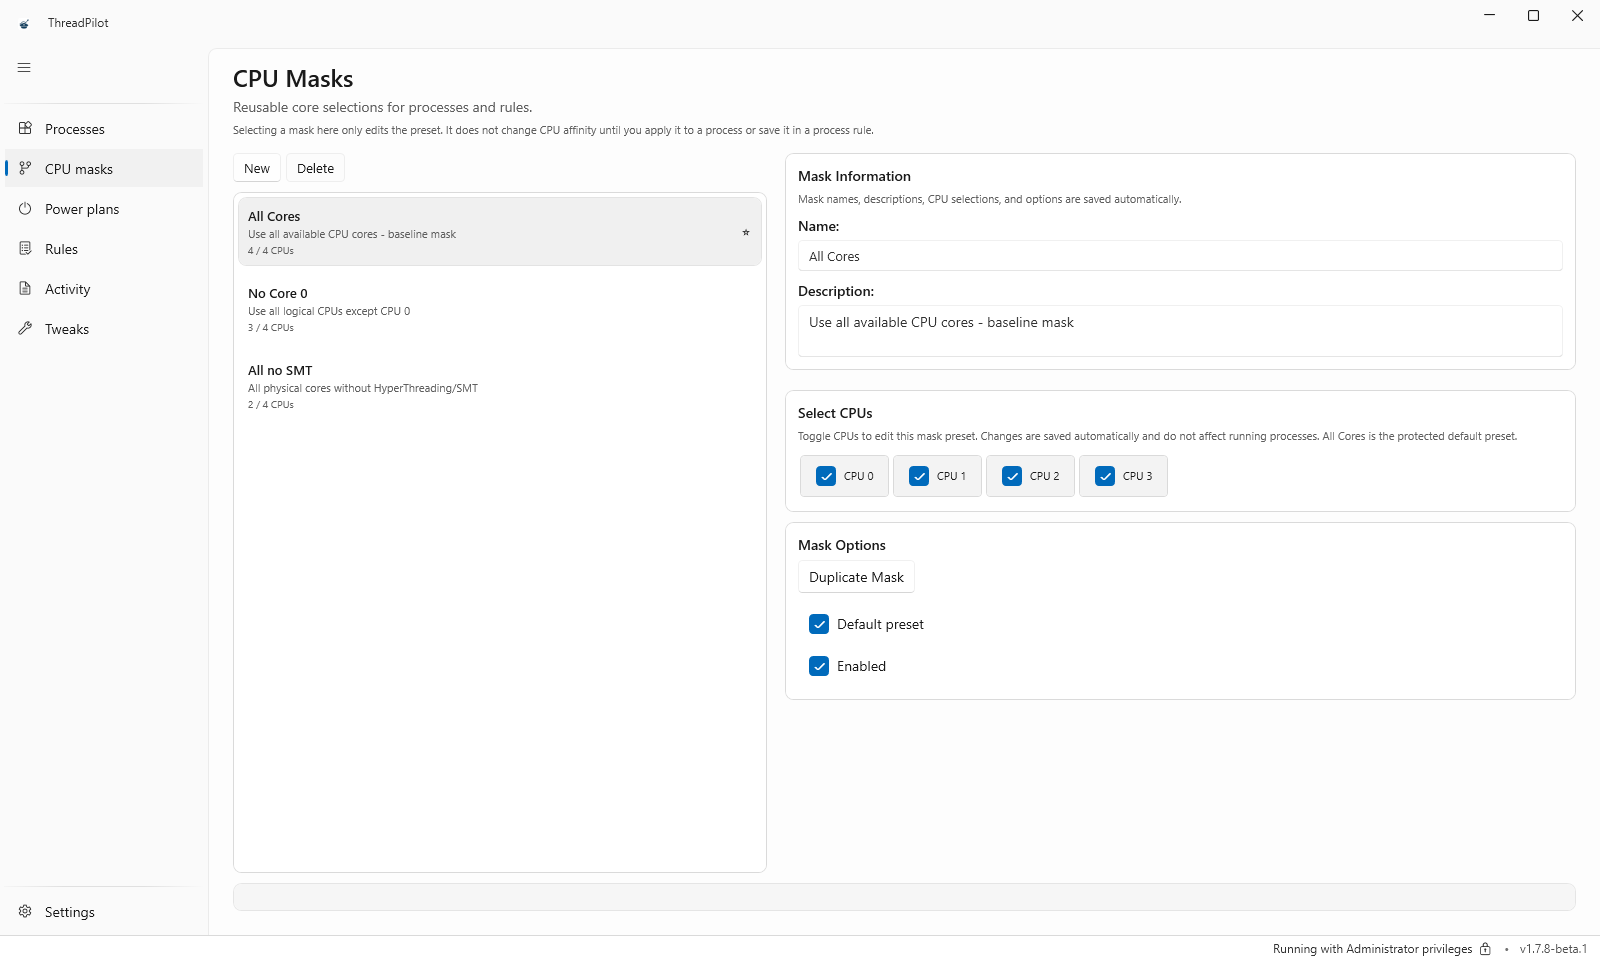
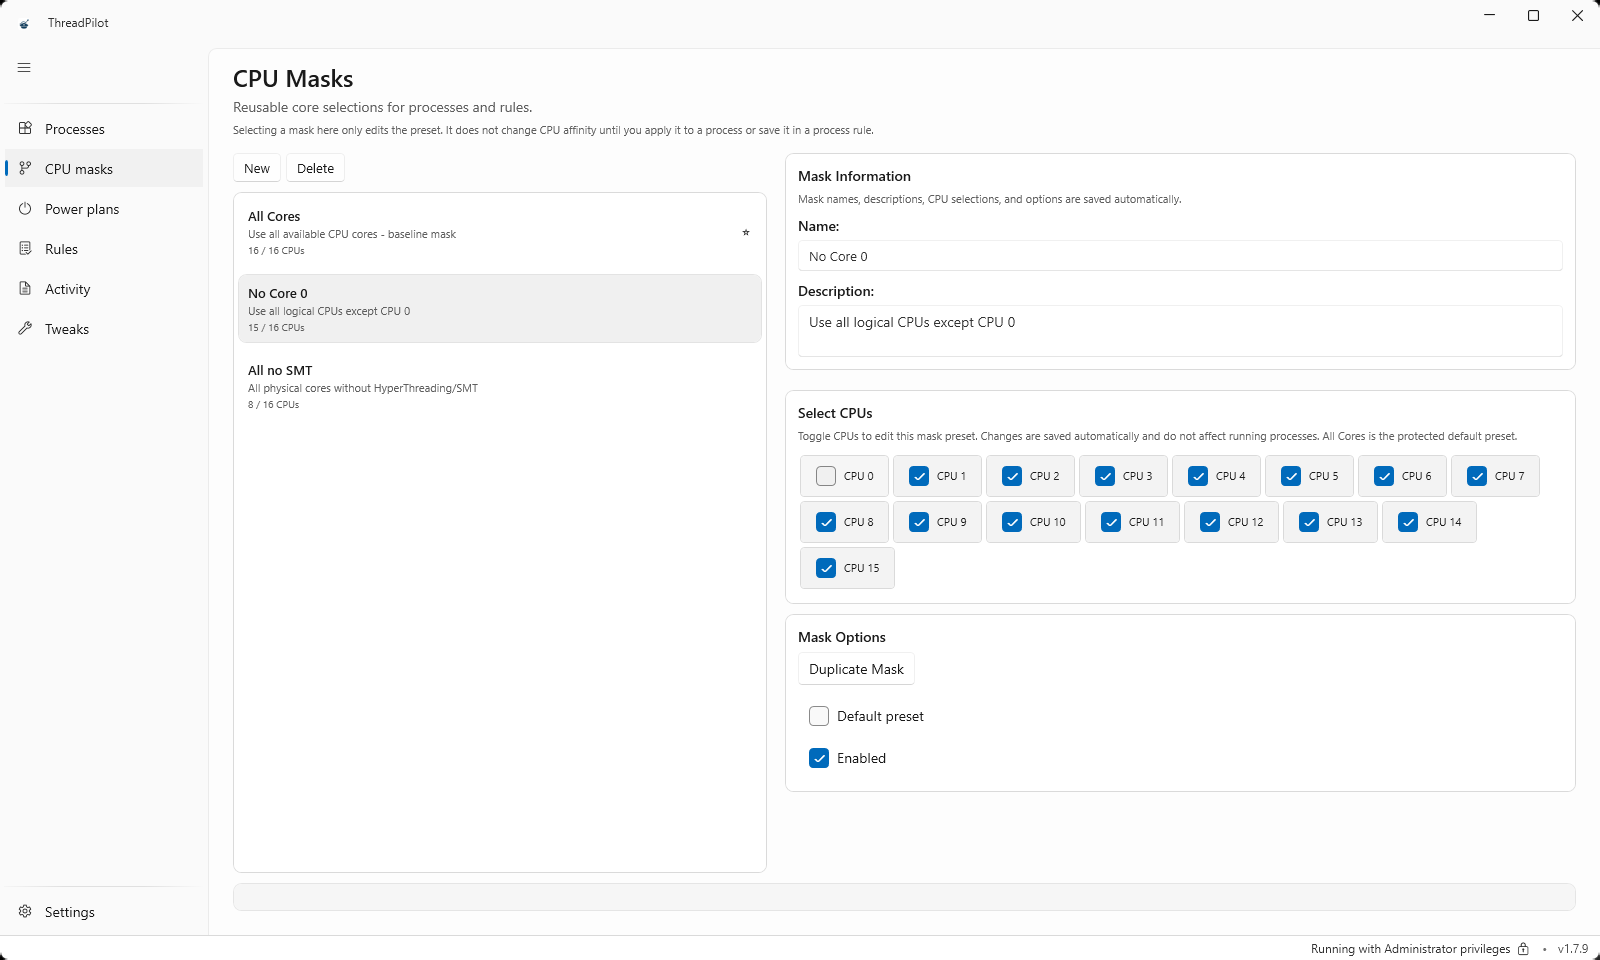
docs: refresh screenshots from v1.7.9, single hero image and thumbnail gallery (closes #97)

diff --git a/README.md b/README.md
@@ -30,13 +30,9 @@
 
 </div>
 
-<p align="center"><img src="docs/media/threadpilot-demo.gif" alt="ThreadPilot demo: CPU masks, saved rules, activity log and Windows tweaks" width="860"></p>
+<p align="center"><a href="assets/screenshots/overview-themes.png"><img src="assets/screenshots/overview-themes.png" alt="ThreadPilot v1.7.9: the Processes page in dark and light themes" width="900"></a></p>
 
-<p align="center"><sub>Real screen recording of v1.7.9: CPU masks, saved rules, Activity and Tweaks.</sub></p>
-
-<a href="assets/screenshots/overview-themes.png"><img width="1600" height="960" alt="ThreadPilot 1.7.8-beta.1: the current Processes interface in dark and light themes" src="assets/screenshots/overview-themes.png"></a>
-
-<p align="center"><sub>Real dark/light screenshots of the interface. <a href="assets/screenshots/processes-dark.png">View dark</a> · <a href="assets/screenshots/processes-light.png">View light</a></sub></p>
+<p align="center"><sub>ThreadPilot v1.7.9, real screenshot in dark and light themes. More in the <a href="#-screenshots">gallery</a>.</sub></p>
 
 ## What is ThreadPilot?
 
@@ -140,24 +136,23 @@ Compare the result with `SHA256SUMS.txt` from the same release.
 
 ## 🖼 Screenshots
 
-Captured from the official **v1.7.8-beta.1** installer in a Windows 11 test VM, using real UI and a sample Notepad rule. These are interface examples, not performance benchmarks. Click any image for full resolution.
+Real captures of ThreadPilot v1.7.9 (see [`assets/screenshots/README.md`](assets/screenshots/README.md)). They show the interface, not benchmarks. Click a thumbnail for the full-size image.
 
 <table>
   <tr>
-    <td width="50%"><a href="assets/screenshots/processes-dark.png"><img src="assets/screenshots/processes-dark.png" alt="Processes in dark theme: selected process, CPU/memory/I/O priority, efficiency mode and core selection" width="800"></a><br><strong>Processes · Dark</strong><br>Live processes, priorities, EcoQoS and CPU cores.</td>
-    <td width="50%"><a href="assets/screenshots/cpu-masks-light.png"><img src="assets/screenshots/cpu-masks-light.png" alt="CPU masks in light theme: reusable masks and the per-core editor" width="800"></a><br><strong>CPU masks · Light</strong><br>Reusable core selections for processes and rules.</td>
+    <td align="center" width="33%"><a href="docs/media/threadpilot-demo.gif"><img src="docs/media/threadpilot-demo.gif" alt="Demo: masks, rules, activity and tweaks" width="260"></a><br><sub>Demo</sub></td>
+    <td align="center" width="33%"><a href="assets/screenshots/processes-dark.png"><img src="assets/screenshots/processes-dark.png" alt="Processes in dark theme with priority, efficiency mode and core selection" width="260"></a><br><sub>Processes · Dark</sub></td>
+    <td align="center" width="33%"><a href="assets/screenshots/processes-light.png"><img src="assets/screenshots/processes-light.png" alt="Processes in light theme" width="260"></a><br><sub>Processes · Light</sub></td>
   </tr>
   <tr>
-    <td><a href="assets/screenshots/power-plans-light.png"><img src="assets/screenshots/power-plans-light.png" alt="Power plans in light theme: installed Windows plans and custom power plan import" width="800"></a><br><strong>Power plans · Light</strong><br>Windows plans and custom .pow imports.</td>
-    <td><a href="assets/screenshots/rules-dark.png"><img src="assets/screenshots/rules-dark.png" alt="Process rules in dark theme: a saved Notepad rule selected in the editor" width="800"></a><br><strong>Process rules · Dark</strong><br>Saved settings and the rule editor.</td>
+    <td align="center" width="33%"><a href="assets/screenshots/cpu-masks-light.png"><img src="assets/screenshots/cpu-masks-light.png" alt="CPU masks: reusable core selections and the per-core editor" width="260"></a><br><sub>CPU masks</sub></td>
+    <td align="center" width="33%"><a href="assets/screenshots/rules-dark.png"><img src="assets/screenshots/rules-dark.png" alt="Rules: a saved Notepad rule in the editor" width="260"></a><br><sub>Rules</sub></td>
+    <td align="center" width="33%"><a href="assets/screenshots/power-plans-light.png"><img src="assets/screenshots/power-plans-light.png" alt="Power plans: Windows plans and custom .pow import" width="260"></a><br><sub>Power plans</sub></td>
   </tr>
   <tr>
-    <td><a href="assets/screenshots/game-boost-dark.png"><img src="assets/screenshots/game-boost-dark.png" alt="Tweaks in dark theme with the Game Boost card, shown off by default" width="800"></a><br><strong>Game Boost overview · Dark</strong><br>Opt-in controls alongside Windows tweaks.</td>
-    <td><a href="assets/screenshots/game-boost-light.png"><img src="assets/screenshots/game-boost-light.png" alt="Game Boost in light theme, enabled in the test VM with game/background app lists expanded and unsupported CPU fallback shown" width="800"></a><br><strong>Game Boost configuration · Light</strong><br>Game lists, exclusions and selected background apps.</td>
-  </tr>
-  <tr>
-    <td><a href="assets/screenshots/activity-light.png"><img src="assets/screenshots/activity-light.png" alt="Activity in light theme: real settings and saved-rule events with filters and export" width="800"></a><br><strong>Activity · Light</strong><br>Changes, results, filters and export.</td>
-    <td><a href="assets/screenshots/settings-dark.png"><img src="assets/screenshots/settings-dark.png" alt="Settings in dark theme: startup, language, theme, automation and CPU assignment preferences" width="800"></a><br><strong>Settings · Dark</strong><br>Startup, language, theme and automation preferences.</td>
+    <td align="center" width="33%"><a href="assets/screenshots/activity-light.png"><img src="assets/screenshots/activity-light.png" alt="Activity: changes and results with filters and export" width="260"></a><br><sub>Activity</sub></td>
+    <td align="center" width="33%"><a href="assets/screenshots/game-boost-dark.png"><img src="assets/screenshots/game-boost-dark.png" alt="Tweaks with the Game Boost card, off by default" width="260"></a><br><sub>Game Boost · off by default</sub></td>
+    <td align="center" width="33%"><a href="assets/screenshots/settings-dark.png"><img src="assets/screenshots/settings-dark.png" alt="Settings: startup, language, theme and automation" width="260"></a><br><sub>Settings</sub></td>
   </tr>
 </table>
 

diff --git a/assets/screenshots/README.md b/assets/screenshots/README.md
@@ -1,8 +1,7 @@
 # Screenshot provenance
 
-- Captured on 2026-10-16 from the official **ThreadPilot v1.7.8-beta.1** installer, source commit `2665d2be9f98c7f7cb477a5ee29c9204f9ab29d7`.
-- Real Windows 11 UI in the isolated `NeuroTune-W11` test VM (4 logical CPUs / 2 physical cores reported), English interface, 1600 × 960 window. The Notepad rule was saved through the application.
-- Raw screenshots are losslessly re-encoded PNGs; no UI, process values or hardware capabilities were fabricated. They are not performance benchmarks.
-- `overview-themes.png` combines matching dark/light Processes captures with a diagonal seam. The process list was locked through the UI and its contents checked unchanged between captures.
-- Game Boost is available **only in the pre-release**, not stable v1.7.7. Its unsupported-topology fallback in this VM is expected; these screenshots do not validate real dual-CCD/hybrid scheduling.
-- Both official installers (stable and preview) were SHA256-verified, installed, opened and uninstalled. Stable showed no Game Boost card; preview did. The VM checkpoint/video settings were restored and it was left off; the host installation/settings were untouched.
+- Captured on 2026-11-12 from the official **ThreadPilot v1.7.9** portable build (SHA256-verified against the release `SHA256SUMS.txt`), real Windows 11 UI, English interface, 1600 × 960 window, 16 logical CPUs.
+- Only navigation was used: no rule, tweak, power plan or Game Boost was applied while capturing. The Processes list is filtered on Notepad (sample process, selected but not changed) so no other process names appear.
+- Power plan names are blurred in `power-plans-light.png`. Images are palette-optimized PNGs, otherwise unedited.
+- `overview-themes.png` combines the matching dark and light Processes captures with a diagonal seam; both show the same list.
+- Game Boost is off by default and not yet validated on dual-CCD Ryzen X3D and Intel hybrid CPUs. These screenshots are not performance benchmarks.

diff --git a/docs/PRESS.md b/docs/PRESS.md
@@ -51,6 +51,8 @@ ThreadPilot gives Windows 11 users precise control over how apps use the CPU. It
 | Rules | [rules-dark.png](https://raw.githubusercontent.com/PrimeBuild-pc/ThreadPilot/main/assets/screenshots/rules-dark.png) |
 | Activity log | [activity-light.png](https://raw.githubusercontent.com/PrimeBuild-pc/ThreadPilot/main/assets/screenshots/activity-light.png) |
 | Power plans | [power-plans-light.png](https://raw.githubusercontent.com/PrimeBuild-pc/ThreadPilot/main/assets/screenshots/power-plans-light.png) |
+| Game Boost (off by default) | [game-boost-dark.png](https://raw.githubusercontent.com/PrimeBuild-pc/ThreadPilot/main/assets/screenshots/game-boost-dark.png) |
+| Settings | [settings-dark.png](https://raw.githubusercontent.com/PrimeBuild-pc/ThreadPilot/main/assets/screenshots/settings-dark.png) |
 | App icon | [ico.ico](https://raw.githubusercontent.com/PrimeBuild-pc/ThreadPilot/main/assets/icons/ico.ico) |
 
 ## Contact
